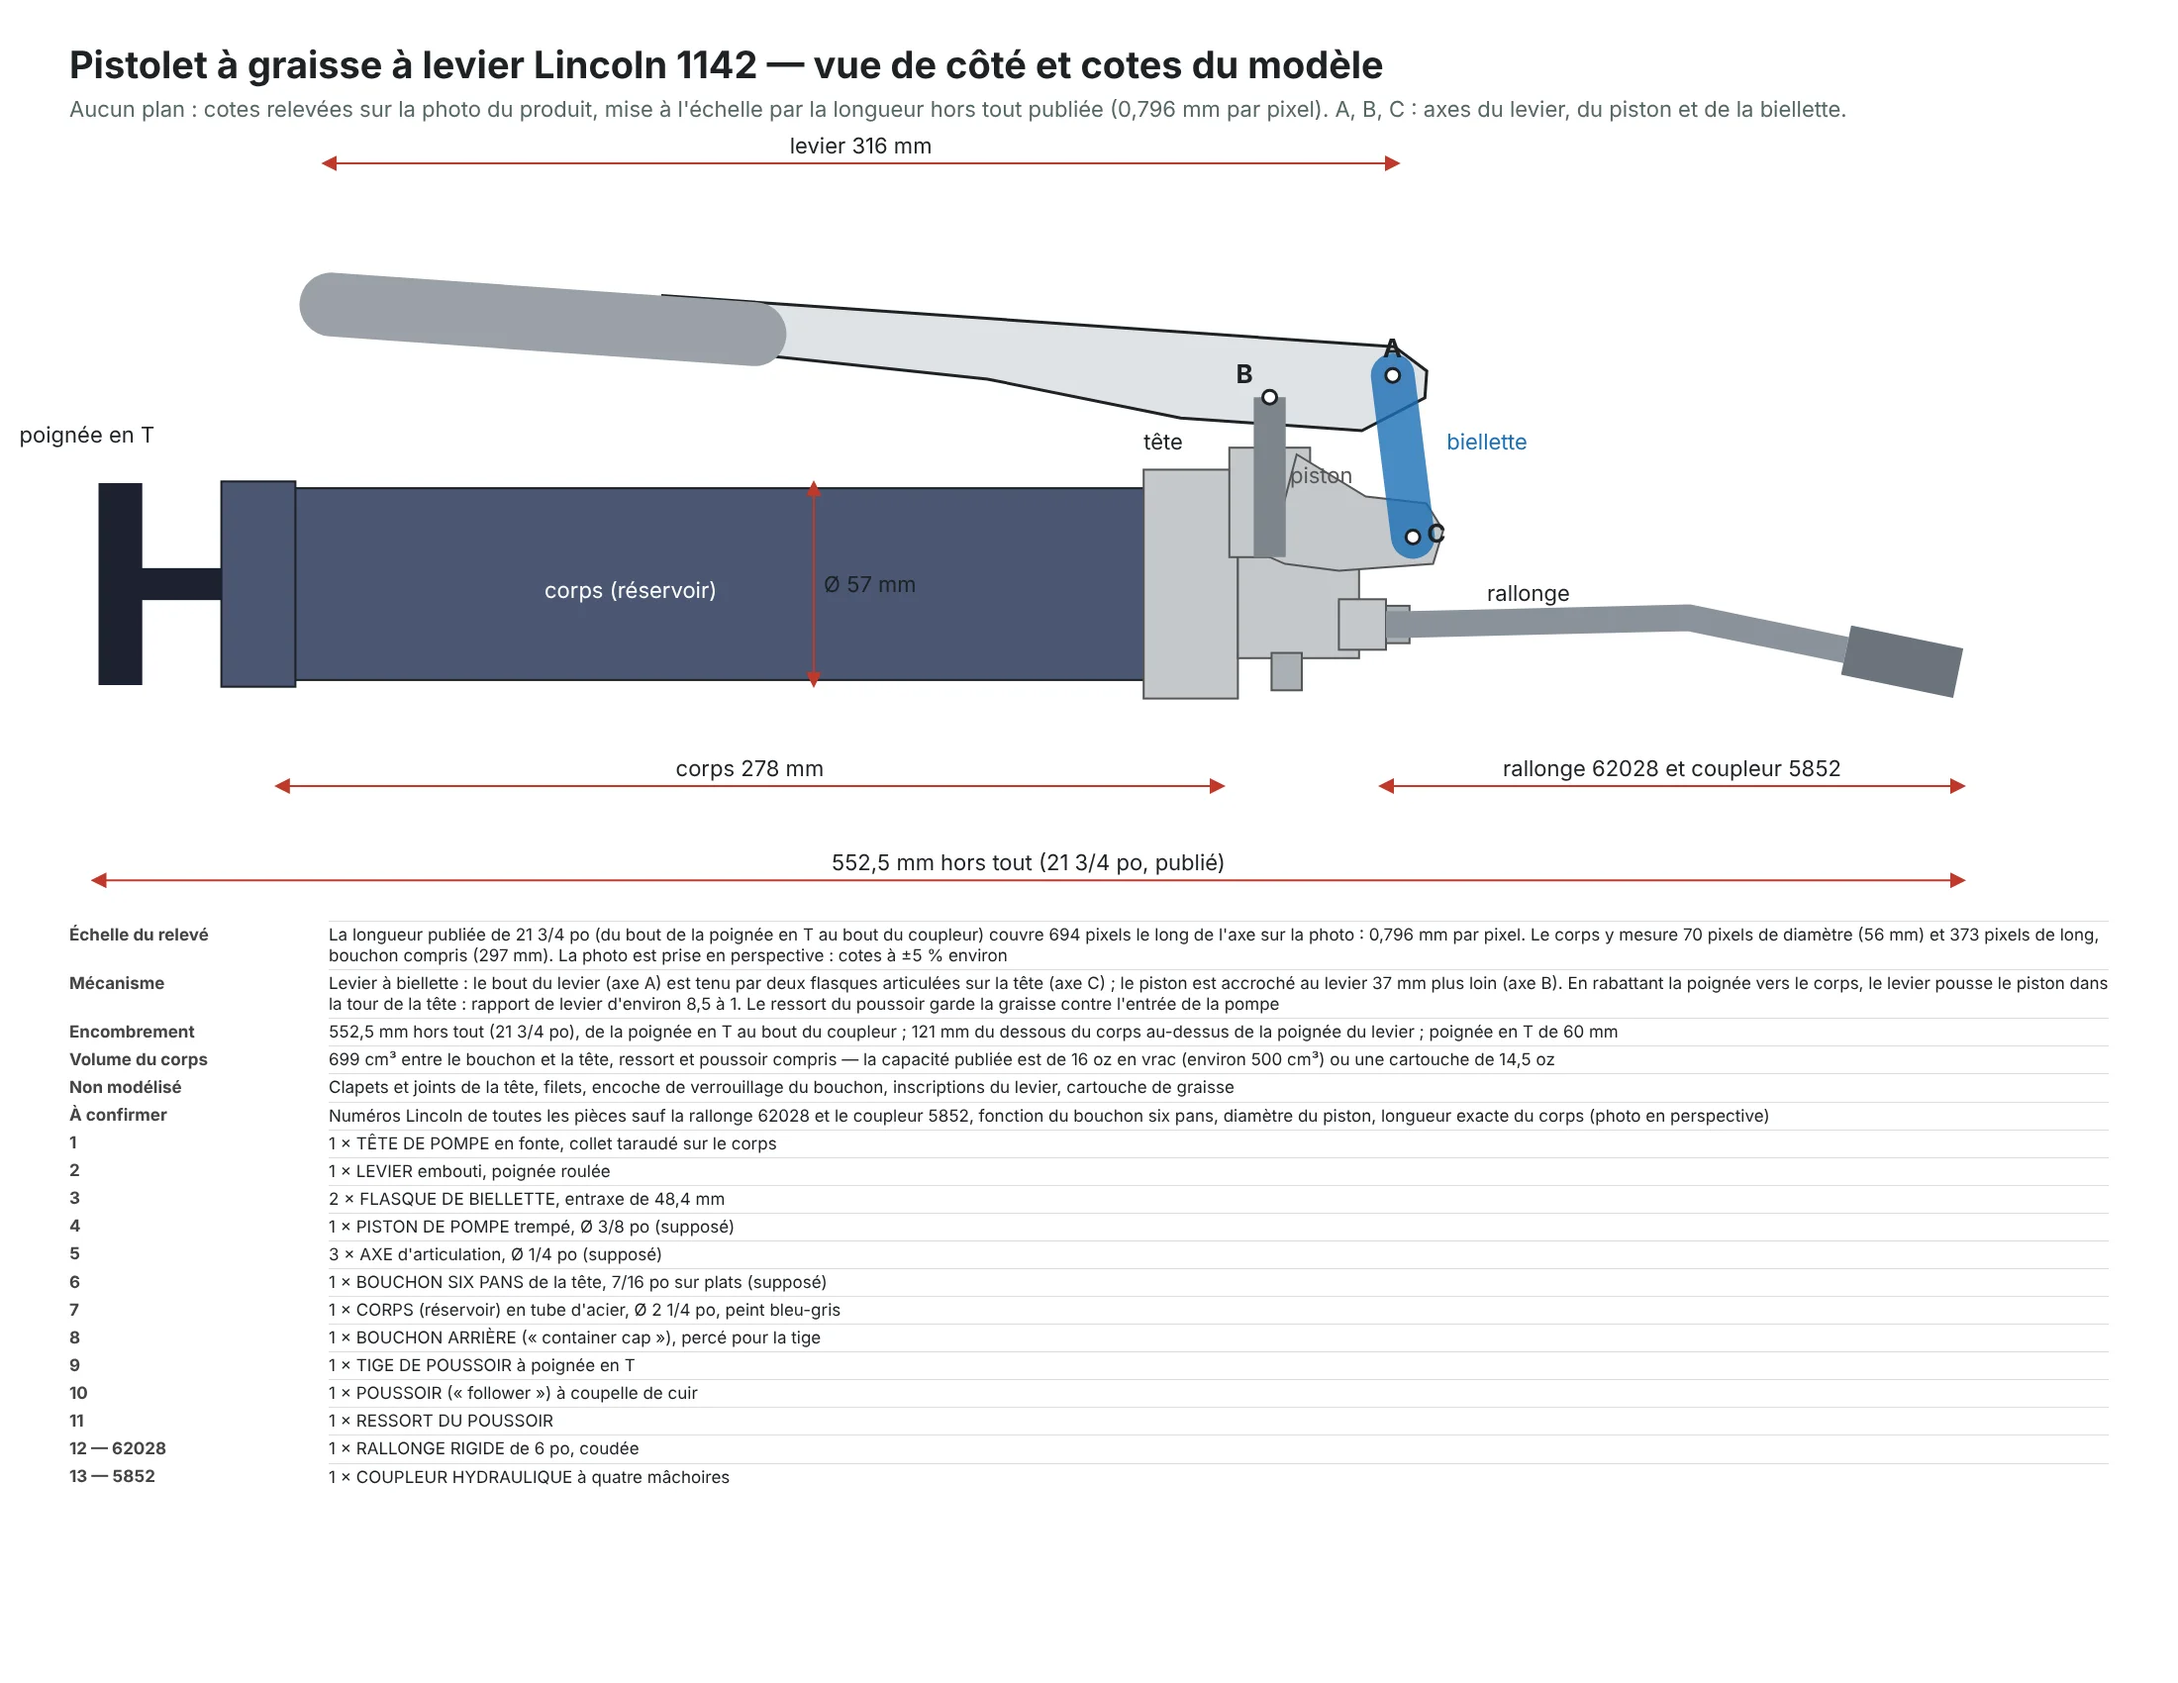
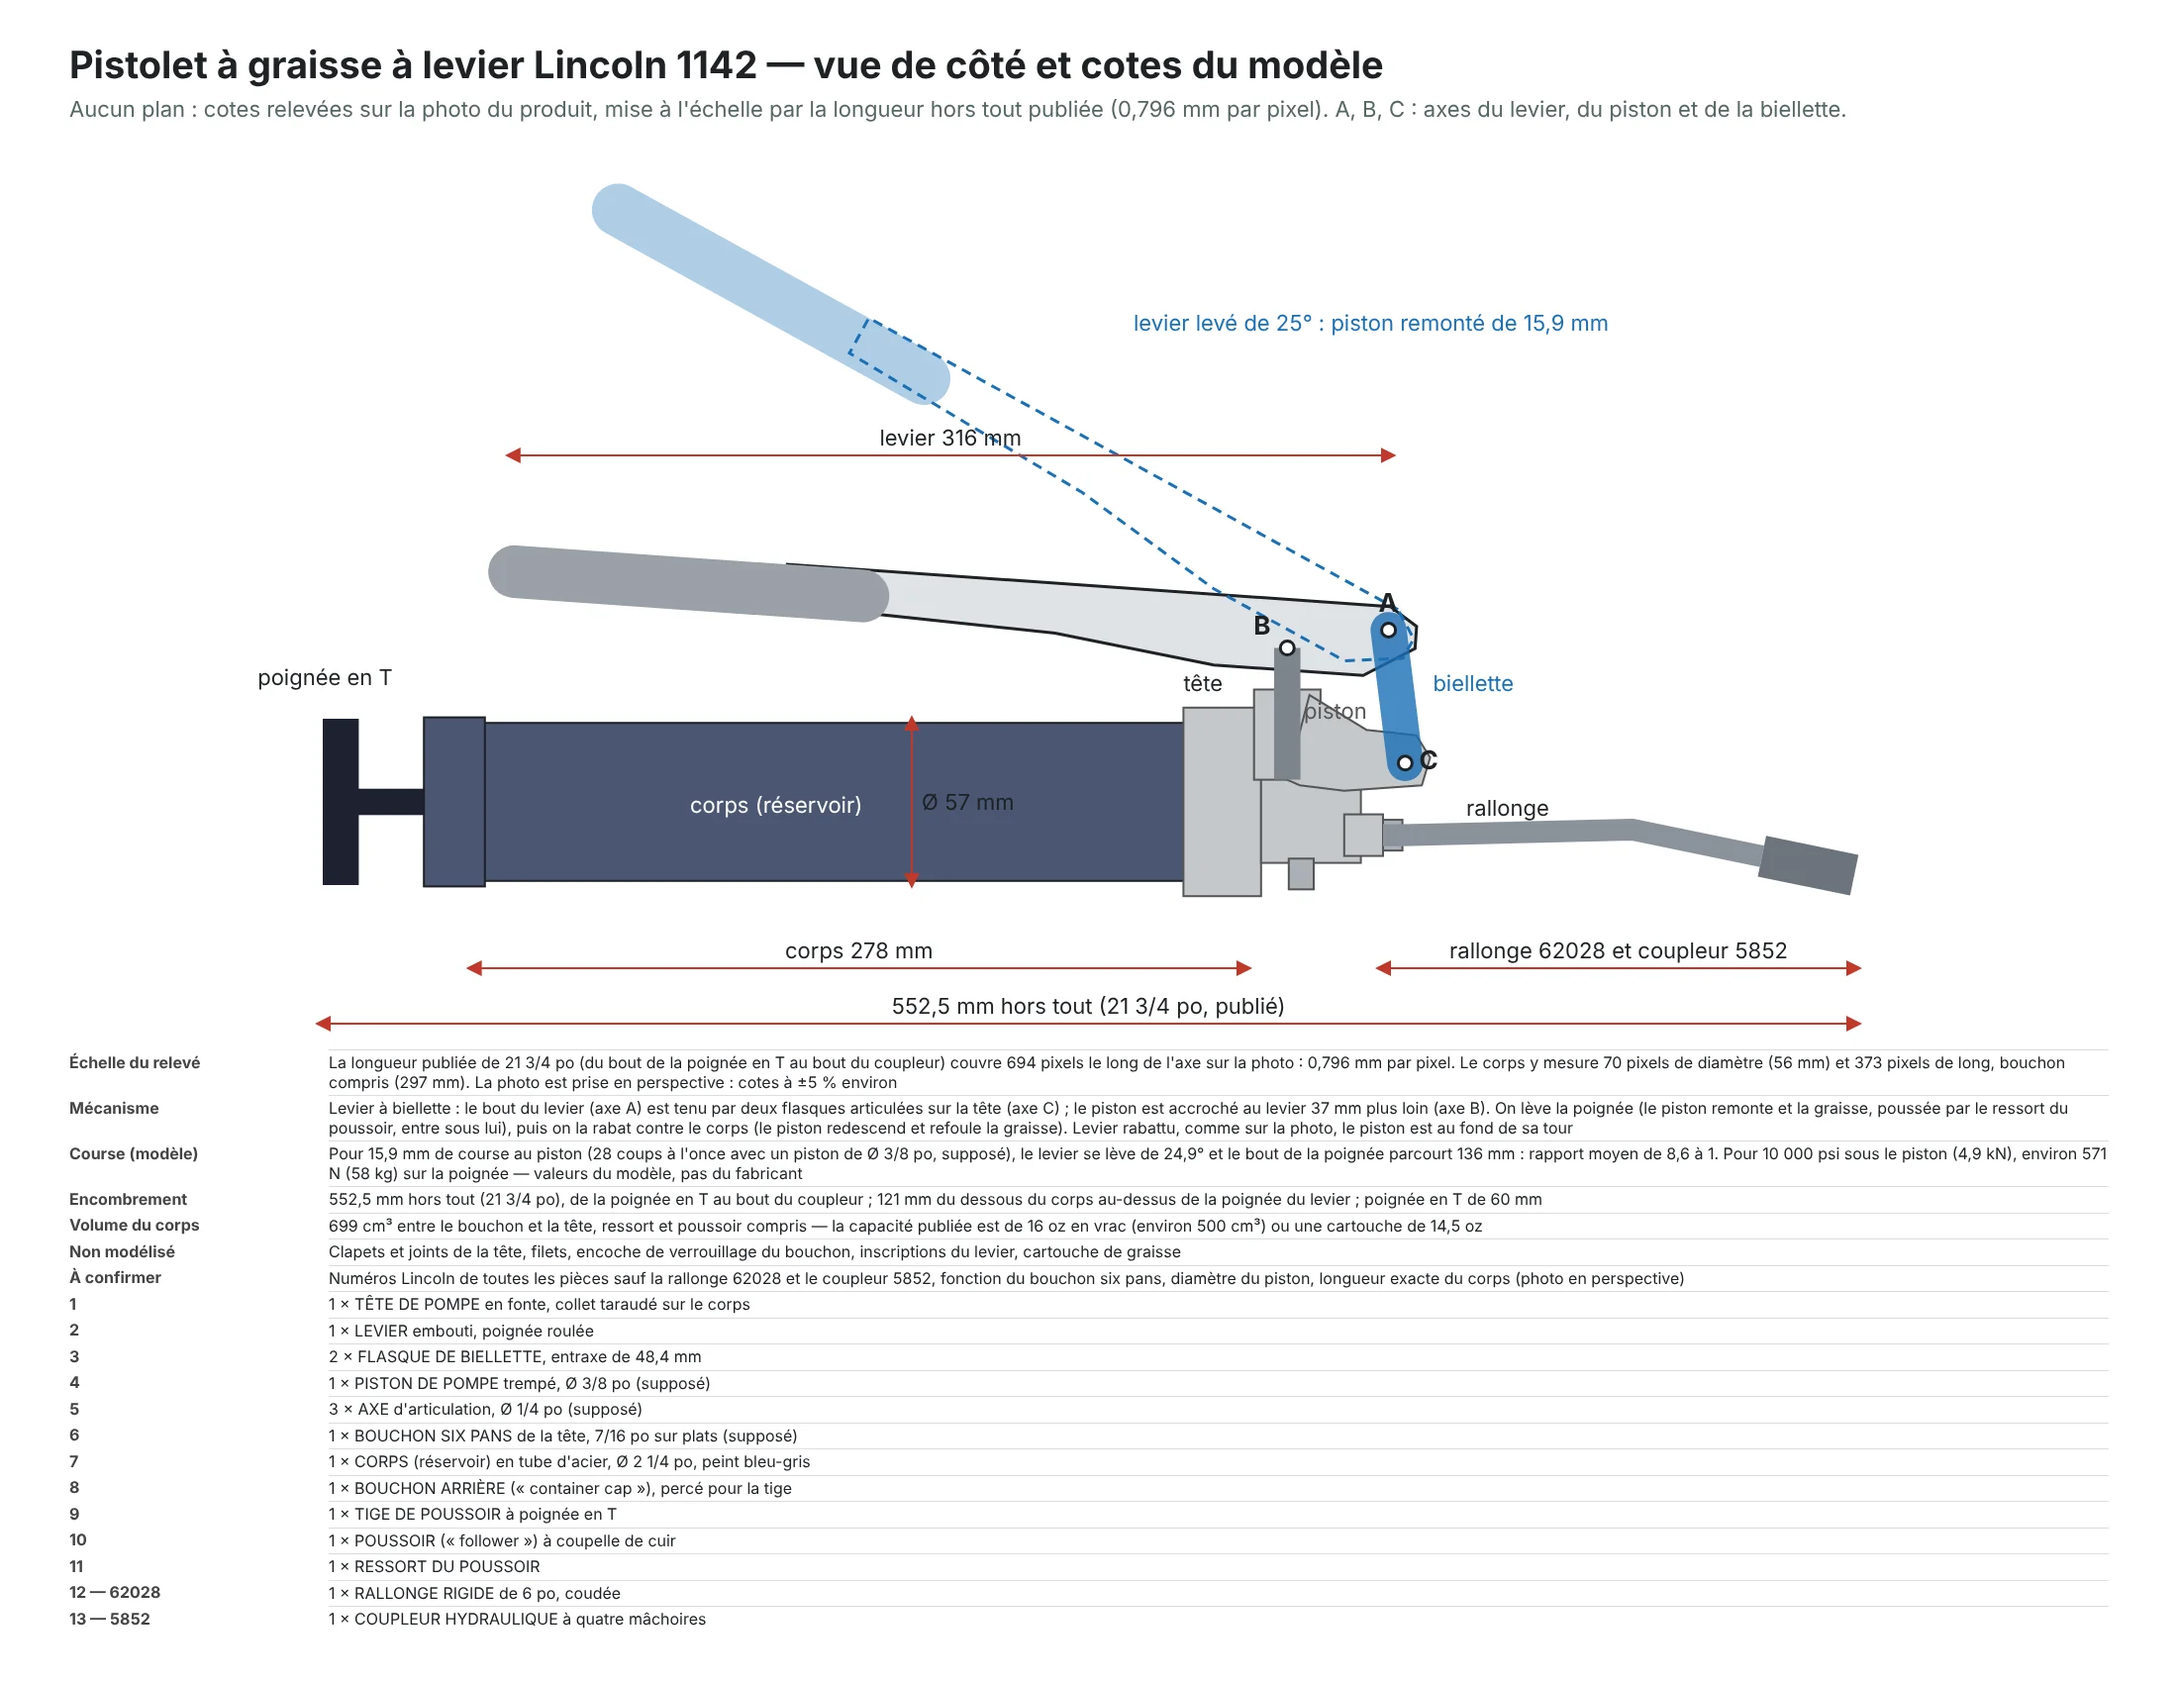
Pistolet à graisse Lincoln 1142 : animation du levier qui pousse le piston (P02)
Scène animée en trois temps : levier rabattu (comme sur la photo), levé de
25° (le piston remonte de sa course de 15,9 mm), puis rabattu (le piston
refoule la graisse). etat(theta) place le levier, la biellette, le piston et
les axes A et B ; le piston glisse dans sa tour, le bout du levier reste à la
longueur de la biellette de l'axe C. Rapport de levier et effort à la
poignée pour 10 000 psi calculés sur le modèle.

La fiche contrôle le mécanisme sur toute la levée ; la page des cotes montre
le levier levé en pointillé. README et index mis à jour.

Claude-Session: https://claude.ai/code/session_015N4WsryUc8q9LSV1D3ZCis

diff --git a/src/models/pistolet-graisse-1142/index.js b/src/models/pistolet-graisse-1142/index.js
@@ -120,6 +120,40 @@ export function course() {
   return (cm3 * 1000) / (Math.PI * (PISTON.d / 2) ** 2);
 }
 
+// ------------------------------------------------------------------ cinématique du levier
+
+const rot = ([x, y], a) => [x * Math.cos(a) - y * Math.sin(a), x * Math.sin(a) + y * Math.cos(a)];
+
+/**
+ * État du mécanisme quand le levier a tourné de `theta` (radians, négatif :
+ * poignée levée) depuis la position de la photo (levier rabattu, piston au
+ * fond). Le piston glisse dans sa tour (B reste sur la verticale de B0) ; le
+ * bout du levier A reste à la longueur de la biellette de l'axe fixe C.
+ * Retourne B, A, la rotation de la biellette autour de C et la remontée du
+ * piston (mm), ou null si le mécanisme ne se monte pas.
+ */
+export function etat(theta) {
+  const B0 = B(), A0 = LEVIER.A, Lb = BIELLETTE();
+  const d = rot([A0[0] - B0[0], A0[1] - B0[1]], theta);
+  const ax = B0[0] + d[0], dx = ax - C[0];
+  if (Math.abs(dx) > Lb) return null;
+  const ay = C[1] + Math.sqrt(Lb * Lb - dx * dx);
+  const A = [ax, ay], b = [B0[0], ay - d[1]];
+  const alpha = Math.atan2(A[1] - C[1], A[0] - C[0]) - Math.atan2(A0[1] - C[1], A0[0] - C[0]);
+  return { theta, A, B: b, alpha, remonte: b[1] - B0[1] };
+}
+/** Bout de la poignée du levier (centre du tube, au bout) dans l'état e. */
+export function boutPoignee(e) {
+  const B0 = B(), p = surLevier(LEVIER.long, -1), q = rot([p[0] - B0[0], p[1] - B0[1]], e.theta);
+  return [e.B[0] + q[0], e.B[1] + q[1]];
+}
+/** Angle dont on lève le levier pour que le piston remonte de toute sa course (radians, négatif). */
+export const THETA_MAX = (() => {
+  let a = 0, b = -60 * RAD;
+  for (let i = 0; i < 60; i++) { const m = (a + b) / 2, e = etat(m); if (e && e.remonte < course()) a = m; else b = m; }
+  return a;
+})();
+
 // ------------------------------------------------------------------ matériaux
 
 const perso = new Map();
@@ -352,27 +386,96 @@ function coupleur(S) {
 
 // ------------------------------------------------------------------ assemblage
 
-export function P01(api) {
+/**
+ * Monte le pistolet et enregistre ses pièces. Retourne poser(theta), qui met
+ * le levier, la biellette, le piston et les axes A et B dans l'état etat(theta).
+ */
+function assemblage(api) {
   const S = api.S;
-  const b = B();
-  api.part('1', tete(S), [0.07, 0, 0], { labelAt: [20 * MM, -20 * MM, (TETE.collet.d / 2) * MM] });
-  api.part('2', levier(S), [0.03, 0.1, 0], { labelAt: [...surLevier(150, 8).map((v) => v * MM), 0] });
-  api.part('3', biellette(S, 1), [0.07, 0.08, 0.05]);
-  api.part('3', biellette(S, -1), [0.07, 0.08, -0.05], { noLabel: true });
-  api.part('4', piston(S), [0.06, 0.06, 0], { labelAt: [b[0] * MM, (b[1] - 12) * MM, 0] });
-  api.part('5', axe(S, LEVIER.A, LEVIER.large + 6), [0.07, 0.1, 0.09]);
-  api.part('5', axe(S, b, LEVIER.large + 2), [0.06, 0.08, 0.09], { noLabel: true });
-  api.part('5', axe(S, C, LEVIER.large + 6), [0.08, 0.07, 0.09], { noLabel: true });
-  api.part('6', sixPans(S), [0.1, -0.03, 0]);
-  api.part('7', corps(S), [0, 0, 0], { labelAt: [-200 * MM, 0, (CORPS.d / 2) * MM] });
-  api.part('8', bouchon(S), [-0.06, 0, 0], { labelAt: [(BOUCHON.x0 + 10) * MM, 0, (BOUCHON.d / 2) * MM] });
-  api.part('9', tige(S), [-0.2, 0, 0], { labelAt: [TIGE.xT * MM, 0, (TIGE.poignee.long / 2) * MM] });
-  api.part('10', poussoir(S), [-0.04, -0.1, 0], { labelAt: [(POUSSOIR.x - 7) * MM, 0, (POUSSOIR.d / 2) * MM] });
-  api.part('11', ressort(S), [0, -0.17, 0], { labelAt: [-150 * MM, 0, (RESSORT.d / 2) * MM] });
-  api.part('12', rallonge(S), [0.16, 0, 0], { labelAt: [100 * MM, -11 * MM, 0] });
-  api.part('13', coupleur(S), [0.22, -0.01, 0]);
+  const b0 = B(), A0 = LEVIER.A;
+  const mobiles = [];
+  // suit : 'fixe', 'levier', 'biellette', 'piston' (piston et axe B) ou 'A' (axe A).
+  const put = (ref, obj, explode, opts = {}, suit = 'fixe') => {
+    const pose = S.group(obj);
+    const g = S.group(pose);
+    if (suit !== 'fixe') mobiles.push({ pose, suit });
+    return api.part(ref, g, explode, opts);
+  };
+  put('1', tete(S), [0.07, 0, 0], { labelAt: [20 * MM, -20 * MM, (TETE.collet.d / 2) * MM] });
+  put('2', levier(S), [0.03, 0.1, 0], { labelAt: [...surLevier(150, 8).map((v) => v * MM), 0] }, 'levier');
+  put('3', biellette(S, 1), [0.07, 0.08, 0.05], {}, 'biellette');
+  put('3', biellette(S, -1), [0.07, 0.08, -0.05], { noLabel: true }, 'biellette');
+  put('4', piston(S), [0.06, 0.06, 0], { labelAt: [b0[0] * MM, (b0[1] - 12) * MM, 0] }, 'piston');
+  put('5', axe(S, A0, LEVIER.large + 6), [0.07, 0.1, 0.09], {}, 'A');
+  put('5', axe(S, b0, LEVIER.large + 2), [0.06, 0.08, 0.09], { noLabel: true }, 'piston');
+  put('5', axe(S, C, LEVIER.large + 6), [0.08, 0.07, 0.09], { noLabel: true });
+  put('6', sixPans(S), [0.1, -0.03, 0]);
+  put('7', corps(S), [0, 0, 0], { labelAt: [-200 * MM, 0, (CORPS.d / 2) * MM] });
+  put('8', bouchon(S), [-0.06, 0, 0], { labelAt: [(BOUCHON.x0 + 10) * MM, 0, (BOUCHON.d / 2) * MM] });
+  put('9', tige(S), [-0.2, 0, 0], { labelAt: [TIGE.xT * MM, 0, (TIGE.poignee.long / 2) * MM] });
+  put('10', poussoir(S), [-0.04, -0.1, 0], { labelAt: [(POUSSOIR.x - 7) * MM, 0, (POUSSOIR.d / 2) * MM] });
+  put('11', ressort(S), [0, -0.17, 0], { labelAt: [-150 * MM, 0, (RESSORT.d / 2) * MM] });
+  put('12', rallonge(S), [0.16, 0, 0], { labelAt: [100 * MM, -11 * MM, 0] });
+  put('13', coupleur(S), [0.22, -0.01, 0]);
+
+  /** Pose p ↦ centre + R(angle)·(p − origine), dans le plan du levier (mm). */
+  const placer = (pose, origine, centre, angle) => {
+    const o = rot(origine, angle);
+    pose.rotation.z = angle;
+    pose.position.set((centre[0] - o[0]) * MM, (centre[1] - o[1]) * MM, 0);
+  };
+  return (theta) => {
+    const e = etat(theta);
+    if (!e) return;
+    for (const { pose, suit } of mobiles) {
+      // La bulle de repère, posée par la visionneuse sur la pièce, passe sur le groupe mobile pour le suivre.
+      for (const c of [...pose.parent.children]) if (c.isCSS2DObject) pose.add(c);
+      if (suit === 'levier') placer(pose, b0, e.B, theta);
+      else if (suit === 'biellette') placer(pose, C, C, e.alpha);
+      else if (suit === 'piston') placer(pose, b0, e.B, 0);
+      else placer(pose, A0, e.A, 0);
+    }
+  };
+}
+
+/** P01 : le pistolet, levier rabattu comme sur la photo, et sa vue éclatée. */
+export function P01(api) {
+  assemblage(api)(0);
   // Vue de la photo : de trois quarts, côté du levier. Coupe proposée : par l'axe, pour voir le poussoir et le ressort.
   return { view: { dir: [0.15, 0.35, 1], section: { axis: 'z', pos: 0.5 } } };
 }
 
-export default { P01 };
+const smooth = (u) => u * u * (3 - 2 * u);
+const fr = (v, n = 0) => v.toFixed(n).replace('.', ',');
+/** Effort à la poignée pour 10 000 psi sous le piston, au rapport de levier moyen (N). */
+export function effortPoignee() {
+  const e = etat(THETA_MAX), p0 = boutPoignee(etat(0)), p1 = boutPoignee(e);
+  const rapport = Math.hypot(p1[0] - p0[0], p1[1] - p0[1]) / e.remonte;
+  const force = 10000 * 0.00689476 * Math.PI * (PISTON.d / 2) ** 2; // psi → MPa, × mm² = N
+  return { rapport, force, poignee: force / rapport, course: Math.hypot(p1[0] - p0[0], p1[1] - p0[1]) };
+}
+const EF = effortPoignee();
+export const STEPS = [
+  { label: 'Départ', title: 'Levier rabattu, piston au fond', text: `Le pistolet tel qu'il est rangé (comme sur la photo) : le levier est rabattu contre le corps et le piston de pompe est au fond de sa tour, dans la tête. Le bout du levier (axe A) est tenu par la biellette, articulée sur la tête (axe C) ; le piston est accroché au levier par l'axe B, ${fr(Math.hypot(...LEVIER.B))} mm plus loin.` },
+  { title: 'Lever le levier : le piston aspire', text: `On lève la poignée de ${fr(-THETA_MAX / RAD)}° (son bout monte d'environ ${fr(EF.course)} mm). Le levier bascule presque autour de l'axe A, que la biellette tient en place : le piston remonte de ${fr(course(), 1)} mm dans sa tour. Le ressort du poussoir pousse alors la graisse du corps sous le piston.` },
+  { title: 'Rabattre le levier : le piston refoule', text: `En rabattant la poignée contre le corps, le piston redescend de ${fr(course(), 1)} mm et chasse environ ${fr(28.35 / PISTON.coupsOnce / 0.9, 1)} cm³ de graisse (28 coups à l'once, donnée publiée) par le clapet de la tête, la rallonge et le coupleur. Rapport de levier moyen de ${fr(EF.rapport, 1)} à 1 : pour 10 000 psi sous le piston (${fr(EF.force / 1000, 1)} kN), il faut environ ${fr(EF.poignee / 9.81)} kg sur la poignée.` },
+];
+
+/** P02 : le même pistolet, levier animé en trois temps (repos, levé, rabattu). */
+export function P02(api) {
+  const poser = assemblage(api);
+  const k = [0, 0];
+  const maj = () => poser(THETA_MAX * (smooth(k[0]) - smooth(k[1])));
+  maj();
+  k.forEach((_, i) => {
+    const g = api.S.group();
+    g.userData.stepAnim = { step: i + 1, delay: 300, dur: 2200, update: (v) => { k[i] = v; maj(); } };
+    api.add(g);
+  });
+  // Même point de vue aux trois étapes, de côté (côté du levier), assez large pour le levier levé.
+  const cible = [-0.05, 0.05, 0], recul = [0.04, 0.1, 0.56];
+  const cam = { pos: cible.map((v, i) => v + recul[i]), tgt: cible };
+  return { view: { dir: [0.07, 0.16, 1], steps: STEPS.map((s) => ({ ...s, cam })), stepsAuto: true } };
+}
+
+export default { P01, P02 };

diff --git a/README.md b/README.md
@@ -965,9 +965,13 @@ pièces (numéro, quantité, page du manuel).
   piston de Ø 3/8 po, poussoir à coupelle de cuir et son ressort. Pistolet
   montré vide, comme sur la photo. Non modélisés : clapets et joints de la
   tête, filets, inscriptions du levier. P01 : le pistolet et sa vue éclatée en
-  13 repères ; la fiche et la page des cotes (P02) sont écrites par
-  `tools/pistolet_graisse_fiche.mjs` à partir des cotes du modèle
-  (`src/models/pistolet-graisse-1142/index.js`).
+  13 repères. P02 : le levier animé en trois temps (rabattu, levé de 25° —
+  le piston remonte de sa course de 15,9 mm —, rabattu à nouveau) ; `etat(theta)`
+  donne la place des axes A et B et de la biellette, le piston glissant dans
+  sa tour. La fiche et la page des cotes (feuille P02, avec le levier levé en
+  pointillé) sont écrites par `tools/pistolet_graisse_fiche.mjs` à partir des
+  cotes du modèle (`src/models/pistolet-graisse-1142/index.js`), qui contrôle
+  aussi que le mécanisme reste monté sur toute la levée.
 
 - **Boulon d'ancrage standard TIME 83-52, NW/L 5 pi**
   (`boulon-ancrage-time`) : la pine d'ancrage à laquelle on fixe la foreuse
